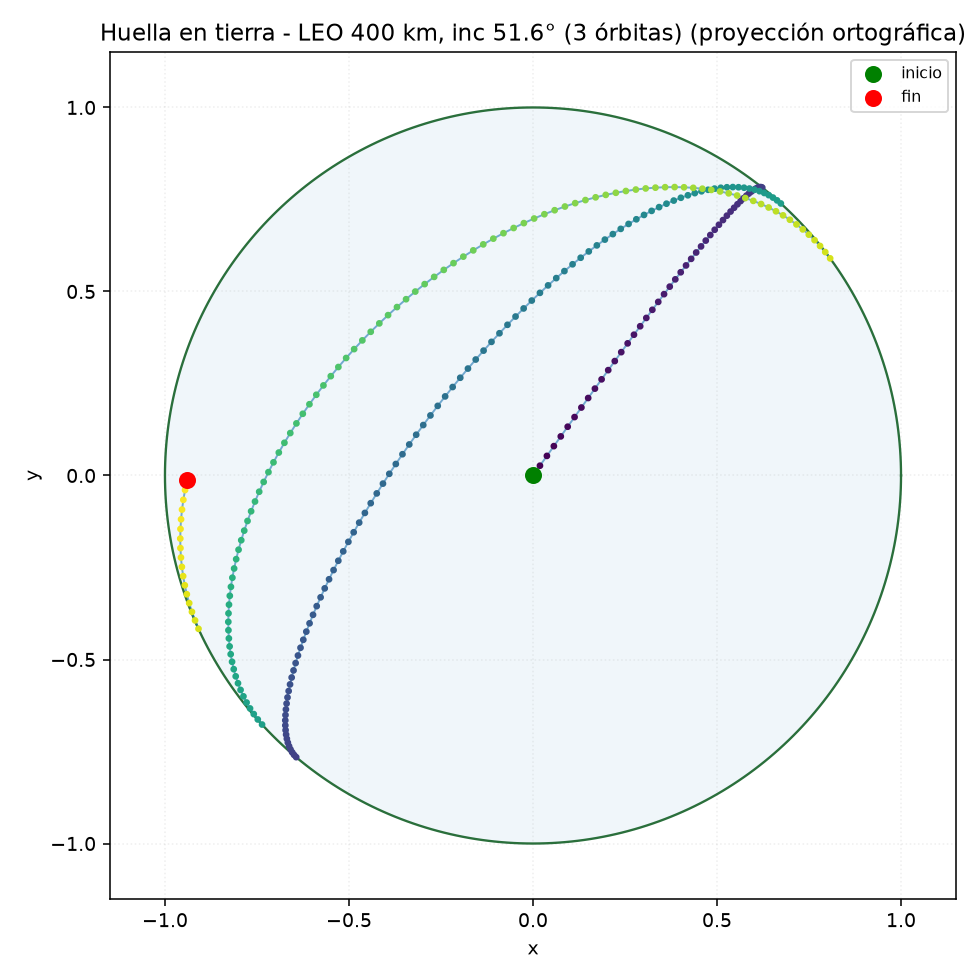
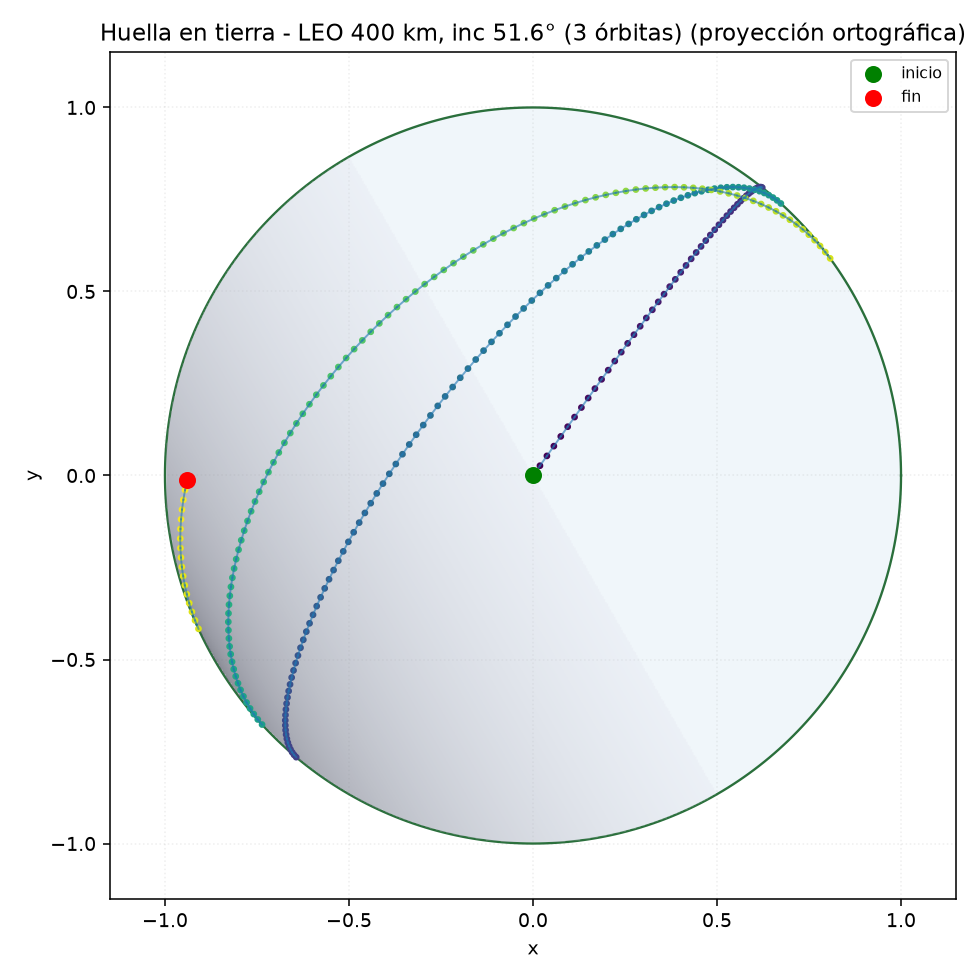
Add day/night shading (gradient, not total black) to ground track views

Changed region(s): [[0.1531, 0.2755, 0.5816, 0.8571], [0.7347, 0.1837, 0.7959, 0.2143]]

diff --git a/src/orbitas_rt/viz.py b/src/orbitas_rt/viz.py
@@ -24,11 +24,13 @@ def _wrap_lon(lon):
     return (lon + 180.0) % 360.0 - 180.0
 
 
-def ground_track(lat_deg, lon_deg, title, path, color="#1f77b4", show_earth=True):
+def ground_track(lat_deg, lon_deg, title, path, color="#1f77b4", show_earth=True,
+                 daynight=True, subsolar_lon=0.0, subsolar_lat=0.0):
     """Dibuja una huella en tierra (lat/lon) sobre un mapa equirectangular simple.
 
     lat_deg, lon_deg: arrays en grados. La polilínea se corta en los saltos de
-    antimeridiano (|Δlon|>180) para evitar rectas espurias.
+    antimeridiano (|Δlon|>180) para evitar rectas espurias. Si daynight=True,
+    sombrea el hemisferio nocturno con un degradado gris.
     """
     lat = np.asarray(lat_deg, dtype=float)
     lon = np.asarray(lon_deg, dtype=float)
@@ -38,6 +40,30 @@ def ground_track(lat_deg, lon_deg, title, path, color="#1f77b4", show_earth=True
         ex = np.linspace(-180, 180, 361)
         ax.plot(ex, 90 * np.ones_like(ex), color="#2a6f3b", lw=0.6, alpha=0.4)
         ax.plot(ex, -90 * np.ones_like(ex), color="#2a6f3b", lw=0.6, alpha=0.4)
+
+    if daynight:
+        N = 400
+        lons = np.linspace(-180, 180, N)
+        lats = np.linspace(-90, 90, N)
+        LON, LAT = np.meshgrid(lons, lats)
+        slat = np.radians(subsolar_lat)
+        slon = np.radians(subsolar_lon)
+        cosz = (np.sin(slat) * np.sin(np.radians(LAT)) +
+                np.cos(slat) * np.cos(np.radians(LAT)) *
+                np.cos(np.radians(LON) - slon))
+        cosz = np.clip(cosz, -1.0, 1.0)
+        zenith = np.arccos(cosz)
+        night = zenith > (np.pi / 2)
+        darkness = np.clip((zenith - np.pi / 2) / (np.pi / 2), 0.0, 1.0)
+        gray = 0.90 - 0.50 * darkness
+        alpha = np.where(night, 0.18 + 0.42 * darkness, 0.0)
+        rgba = np.zeros((N, N, 4))
+        rgba[..., 0] = gray
+        rgba[..., 1] = gray
+        rgba[..., 2] = gray + 0.05
+        rgba[..., 3] = alpha
+        ax.imshow(rgba, extent=[-180, 180, -90, 90], origin="lower", zorder=1, aspect="auto")
+
     sc = ax.scatter(lon, lat, c=np.arange(len(lon)), cmap="viridis", s=6, zorder=3)
     # cortar en saltos de antimeridiano
     segs = []
@@ -70,11 +96,13 @@ def ground_track(lat_deg, lon_deg, title, path, color="#1f77b4", show_earth=True
     plt.close(fig)
 
 
-def ground_track_ortho(lat_deg, lon_deg, title, path, color="#1f77b4"):
+def ground_track_ortho(lat_deg, lon_deg, title, path, color="#1f77b4",
+                      subsolar_lon=0.0, subsolar_lat=0.0, daynight=True):
     """Huella en tierra en proyección ortográfica (globo), sin distorsión planar.
 
     Evita la distorsión de la proyección plana; muestra el hemisferio visible
-    centrado en (0,0).
+    centrado en (0,0). Si daynight=True, sombrea el hemisferio nocturno con un
+    degradado gris (no negro total).
     """
     lat = np.asarray(lat_deg, dtype=float)
     lon = np.asarray(lon_deg, dtype=float)
@@ -91,17 +119,51 @@ def ground_track_ortho(lat_deg, lon_deg, title, path, color="#1f77b4"):
     th = np.linspace(0, 2 * np.pi, 361)
     ax.plot(np.cos(th), np.sin(th), color="#2a6f3b", lw=1.2)
     ax.fill(np.cos(th), np.sin(th), color="#dbe9f4", alpha=0.4)
+
+    # Sombreado día/noche con degradado (solo en el disco visible)
+    if daynight:
+        N = 500
+        xs = np.linspace(-1.0, 1.0, N)
+        ys = np.linspace(-1.0, 1.0, N)
+        X, Y = np.meshgrid(xs, ys)
+        R2 = X * X + Y * Y
+        mask = R2 <= 1.0
+        Z = np.sqrt(np.clip(1.0 - R2, 0.0, 1.0))
+        # vector del punto en la esfera (unitario)
+        # sun direction
+        slat = np.radians(subsolar_lat)
+        slon = np.radians(subsolar_lon)
+        S = np.array([np.cos(slat) * np.cos(slon),
+                      np.cos(slat) * np.sin(slon),
+                      np.sin(slat)])
+        cosz = X * S[0] + Y * S[1] + Z * S[2]
+        cosz = np.clip(cosz, -1.0, 1.0)
+        zenith = np.arccos(cosz)  # 0 = subsolar, pi = antisolar
+        night = zenith > (np.pi / 2)
+        darkness = np.clip((zenith - np.pi / 2) / (np.pi / 2), 0.0, 1.0)
+        # degradado gris: terminador claro, antisolar más oscuro (no negro total)
+        gray = 0.88 - 0.55 * darkness
+        alpha = np.where(night, 0.25 + 0.45 * darkness, 0.0)
+        rgba = np.zeros((N, N, 4))
+        rgba[..., 0] = gray
+        rgba[..., 1] = gray
+        rgba[..., 2] = gray + 0.05
+        rgba[..., 3] = alpha
+        # enmascarar fuera del disco
+        rgba[~mask, 3] = 0.0
+        ax.imshow(rgba, extent=[-1, 1, -1, 1], origin="lower", zorder=2)
+
     xs = x[visible]
     ys = y[visible]
     ax.scatter(xs, ys, c=np.arange(len(xs)), cmap="viridis", s=6, zorder=3)
     for i in range(1, len(lat)):
         if not (visible[i] and visible[i - 1]):
             continue
-        ax.plot([x[i - 1], x[i]], [y[i - 1], y[i]], color=color, lw=1.0, alpha=0.6, zorder=2)
+        ax.plot([x[i - 1], x[i]], [y[i - 1], y[i]], color=color, lw=1.0, alpha=0.6, zorder=4)
     vis_idx = np.where(visible)[0]
     if len(vis_idx) > 0:
-        ax.scatter([x[vis_idx[0]]], [y[vis_idx[0]]], color="green", s=60, zorder=4, label="inicio")
-        ax.scatter([x[vis_idx[-1]]], [y[vis_idx[-1]]], color="red", s=60, zorder=4, label="fin")
+        ax.scatter([x[vis_idx[0]]], [y[vis_idx[0]]], color="green", s=60, zorder=5, label="inicio")
+        ax.scatter([x[vis_idx[-1]]], [y[vis_idx[-1]]], color="red", s=60, zorder=5, label="fin")
     ax.set_aspect("equal")
     ax.set_xlim(-1.15, 1.15)
     ax.set_ylim(-1.15, 1.15)

diff --git a/examples/run_leo_ground_track.py b/examples/run_leo_ground_track.py
@@ -22,5 +22,5 @@ print(f"Guardado: {path}  ({len(t)} puntos)")
 
 path2 = os.path.join(out, "leo_ground_track_ortho.png")
 ground_track_ortho(lat, lon, "Huella en tierra - LEO 400 km, inc 51.6° (3 órbitas)",
-                   path2)
+                   path2, subsolar_lon=30.0)
 print(f"Guardado: {path2}")
